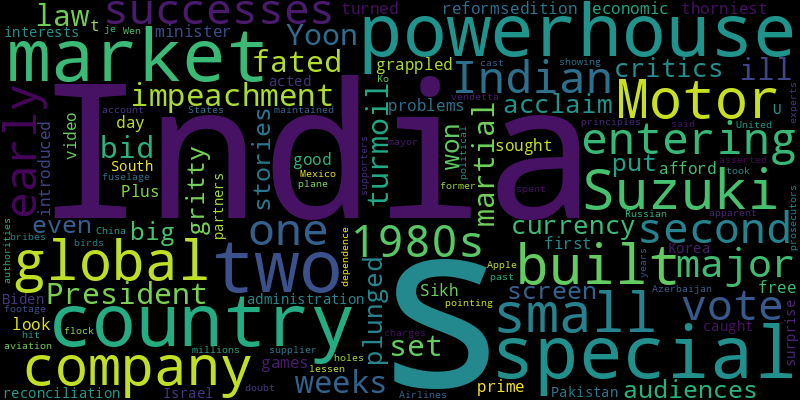
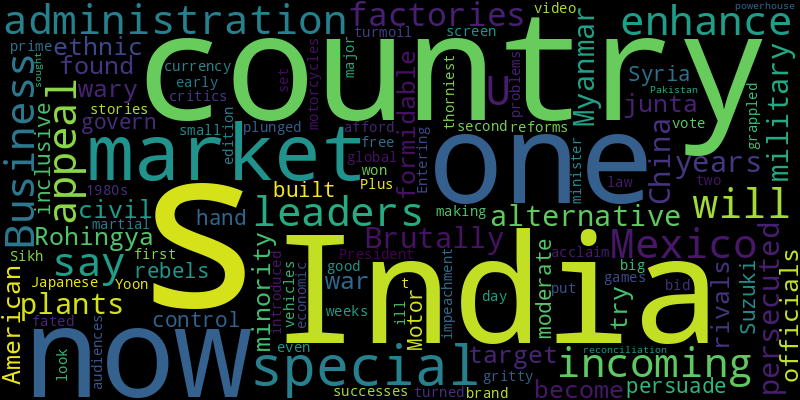
chore(bot): 😂 auto commit

diff --git a/README.md b/README.md
@@ -2,41 +2,41 @@
 Auto RSS New York Times and Generate Word Cloud
 
 ## New York Times Global News
-* The vote was the second major impeachment in two weeks after President Yoon’s ill-fated martial law bid set off turmoil. The country’s currency has plunged.
+* The danger and hardship gets worse by the day for civilians in eastern Ukraine. Still, they resist leaving the places that have become their homes.
+* Human rights organizations and residents describe the situation in the enclave as getting more desperate. Here is a closer look.
+* Brutally persecuted for years by the military in Myanmar, the Rohingya ethnic minority has now become the target of one of the junta’s most formidable rivals in the country’s civil war.
+* The war with Hezbollah has cleared out the north of the country — save for a hardy few and their thousands of prized fish.
+* The country, which has one of Europe’s highest smoking rates, is also resisting a wider push for outdoor bans.
+* Russia has assembled a fleet of hundreds of vessels to covertly ship its oil. With so many ships at sea, the idea of using some to cause havoc may be proving irresistible to the Kremlin.
+* Here’s what he found.
 * In his first term, Donald Trump denigrated African nations, but leaders there are hopeful his return will bring more investment and less pressure to uphold democracy and human rights.
-* Amid an outcry for justice and accountability and threats online, a once-dominant group is feeling deep anxiety after the ouster of Syria’s dictator.
 * Sixteen young people evacuated from Gaza for treatment of dire injuries. Months later, they face new lives in an unfamiliar country.
 * A decade since the United States and Cuba restored diplomatic relations — which many believed would transform the island — Cuba is in its worst crisis since Fidel Castro took power.
-* The long-range missiles provided by the United States and Britain were used to strike inside Russian territory, despite concerns that their use would escalate the conflict. Kyiv’s stockpiles are running out.
-* Finland seized an oil tanker after the latest in a series of disruptions to undersea infrastructure.
-* Russian aviation authorities said the Azerbaijan Airlines plane had hit a flock of birds. But some experts cast doubt on that account, pointing to footage showing apparent holes in the fuselage.
-* A global crackdown on fentanyl has led cartels to innovate production methods and test their risky formulas on people, as well as rabbits and chickens.
-* Trapped in Sudan’s brutal civil war, a young woman chose to work in a clinic on the front line, treating civilians and combatants. She had to navigate suspicion from both sides.
 
 ![Global](./global.png)
 ## New York Times United States News
-* A Freedom Caucus bloc has never won control of a state legislative chamber — until now. Some lawmakers worry that the newly ascendant conservatives want to “burn it all down.”
-* An increasingly ferocious and volatile surf is raising questions about the future of the state’s piers, which have defined the coastline for generations.
-* Communities are divided on how much to cooperate with immigration agents. In San Diego, the sheriff has vowed to defy a new policy protecting migrants.
-* Republicans passed the law in 2023, joining other conservative states and counties that have sought to restrict the availability of certain books.
 * The settlements culminate a lengthy personal and legal odyssey for the first accuser, Alex Harrison, who was subsequently shunned by teammates and parents.
-* In an interview, Roy Cooper spoke about his legacy, how to appeal to Republicans and Democratic speculation that he might run for Senate or for president.
-* A decade since the United States and Cuba restored diplomatic relations — which many believed would transform the island — Cuba is in its worst crisis since Fidel Castro took power.
-* The two games had more than 24 million viewers on average in the United States, Netflix said. Viewership peaked when Beyoncé performed.
-* The bird of brown and white feathers has long represented the United States as a majestic and soaring symbol, but only this week did a law make it official.
-* For decades after Martha Moxley’s gruesome death, Mrs. Moxley remained a compelling figure in a roller-coaster case that captured the world’s attention.
+* Businesses will not have to reveal their owners after an appeals court reversed a move that would have forced them to disclose the information by Jan. 1.
+* A Freedom Caucus bloc has never won control of a state legislative chamber — until now. Some lawmakers worry that the newly ascendant conservatives want to “burn it all down.”
+* Communities are divided on how much to cooperate with immigration agents. In San Diego, the sheriff has vowed to defy a new policy protecting migrants.
+* They talk about the historic moments they captured that defined the year — the migrant crisis, the war in Ukraine, arctic war training and hostage returns.
+* There was a healthy dose of skepticism in Butte, Mont., when Hollywood producers began showing up to shoot their shows. Now, many say the industry’s arrival has been a boon for the city.
+* The identity of the jackpot winner was not immediately known, but lottery officials in California are expected to reveal it.
+* The person, who boarded the flight without a ticket, was detected as the plane was preparing to take off for Hawaii on Christmas Eve.
+* The president-elect took no position on the app’s First Amendment challenge to the law, which sets a Jan. 19 deadline to sell or close the popular platform.
+* The building, now boarded up, was made famous when it was featured on the cover of the 1970 album “Morrison Hotel.”
 
 ![US](./usnews.png)
 ## New York Times Asia News
-* He built Suzuki Motor from a small company into a global powerhouse, entering the Indian market in the 1980s in one of his early successes.
+* Business leaders in Mexico say the incoming U.S. administration will enhance the appeal of their factories as an alternative to plants in China.
+* Brutally persecuted for years by the military in Myanmar, the Rohingya ethnic minority has now become the target of one of the junta’s most formidable rivals in the country’s civil war.
+* Here’s what he found.
+* American officials are wary as they try to persuade the rebels now in control in Syria to govern with an inclusive and moderate hand.
+* He built Suzuki Motor into a Japanese global brand making small vehicles and motorcycles. Entering India’s market in the 1980s was one of his early successes.
 * The vote was the second major impeachment in two weeks after President Yoon’s ill-fated martial law bid set off turmoil. The country’s currency has plunged.
 * He won acclaim from critics and audiences even as the gritty stories he put on the big screen grappled with some of India’s thorniest problems.
 * Plus, video games can’t afford to look this good.
 * A special edition for a special day.
 * The country’s first Sikh prime minister, he introduced free-market reforms that turned India into an economic powerhouse and sought reconciliation with Pakistan.
-* The Biden administration has been caught by surprise when partners like South Korea and Israel have acted against U.S. interests and principles.
-* Russian aviation authorities said the Azerbaijan Airlines plane had hit a flock of birds. But some experts cast doubt on that account, pointing to footage showing apparent holes in the fuselage.
-* The Apple supplier has spent millions in the United States, India and Mexico over the past two years to lessen its dependence on China.
-* The prosecutors asserted that Ko Wen-je, a former mayor, took bribes. He and his supporters have maintained that the charges are a political vendetta.
 
 ![Asian](./asian.png)

diff --git a/archive/2024-12-27.md b/archive/2024-12-27.md
@@ -1,0 +1,42 @@
+# NewsArchive
+Auto RSS New York Times and Generate Word Cloud
+
+## New York Times Global News
+* The vote was the second major impeachment in two weeks after President Yoon’s ill-fated martial law bid set off turmoil. The country’s currency has plunged.
+* In his first term, Donald Trump denigrated African nations, but leaders there are hopeful his return will bring more investment and less pressure to uphold democracy and human rights.
+* Amid an outcry for justice and accountability and threats online, a once-dominant group is feeling deep anxiety after the ouster of Syria’s dictator.
+* Sixteen young people evacuated from Gaza for treatment of dire injuries. Months later, they face new lives in an unfamiliar country.
+* A decade since the United States and Cuba restored diplomatic relations — which many believed would transform the island — Cuba is in its worst crisis since Fidel Castro took power.
+* The long-range missiles provided by the United States and Britain were used to strike inside Russian territory, despite concerns that their use would escalate the conflict. Kyiv’s stockpiles are running out.
+* Finland seized an oil tanker after the latest in a series of disruptions to undersea infrastructure.
+* Russian aviation authorities said the Azerbaijan Airlines plane had hit a flock of birds. But some experts cast doubt on that account, pointing to footage showing apparent holes in the fuselage.
+* A global crackdown on fentanyl has led cartels to innovate production methods and test their risky formulas on people, as well as rabbits and chickens.
+* Trapped in Sudan’s brutal civil war, a young woman chose to work in a clinic on the front line, treating civilians and combatants. She had to navigate suspicion from both sides.
+
+![Global](./global.png)
+## New York Times United States News
+* A Freedom Caucus bloc has never won control of a state legislative chamber — until now. Some lawmakers worry that the newly ascendant conservatives want to “burn it all down.”
+* An increasingly ferocious and volatile surf is raising questions about the future of the state’s piers, which have defined the coastline for generations.
+* Communities are divided on how much to cooperate with immigration agents. In San Diego, the sheriff has vowed to defy a new policy protecting migrants.
+* Republicans passed the law in 2023, joining other conservative states and counties that have sought to restrict the availability of certain books.
+* The settlements culminate a lengthy personal and legal odyssey for the first accuser, Alex Harrison, who was subsequently shunned by teammates and parents.
+* In an interview, Roy Cooper spoke about his legacy, how to appeal to Republicans and Democratic speculation that he might run for Senate or for president.
+* A decade since the United States and Cuba restored diplomatic relations — which many believed would transform the island — Cuba is in its worst crisis since Fidel Castro took power.
+* The two games had more than 24 million viewers on average in the United States, Netflix said. Viewership peaked when Beyoncé performed.
+* The bird of brown and white feathers has long represented the United States as a majestic and soaring symbol, but only this week did a law make it official.
+* For decades after Martha Moxley’s gruesome death, Mrs. Moxley remained a compelling figure in a roller-coaster case that captured the world’s attention.
+
+![US](./usnews.png)
+## New York Times Asia News
+* He built Suzuki Motor from a small company into a global powerhouse, entering the Indian market in the 1980s in one of his early successes.
+* The vote was the second major impeachment in two weeks after President Yoon’s ill-fated martial law bid set off turmoil. The country’s currency has plunged.
+* He won acclaim from critics and audiences even as the gritty stories he put on the big screen grappled with some of India’s thorniest problems.
+* Plus, video games can’t afford to look this good.
+* A special edition for a special day.
+* The country’s first Sikh prime minister, he introduced free-market reforms that turned India into an economic powerhouse and sought reconciliation with Pakistan.
+* The Biden administration has been caught by surprise when partners like South Korea and Israel have acted against U.S. interests and principles.
+* Russian aviation authorities said the Azerbaijan Airlines plane had hit a flock of birds. But some experts cast doubt on that account, pointing to footage showing apparent holes in the fuselage.
+* The Apple supplier has spent millions in the United States, India and Mexico over the past two years to lessen its dependence on China.
+* The prosecutors asserted that Ko Wen-je, a former mayor, took bribes. He and his supporters have maintained that the charges are a political vendetta.
+
+![Asian](./asian.png)
